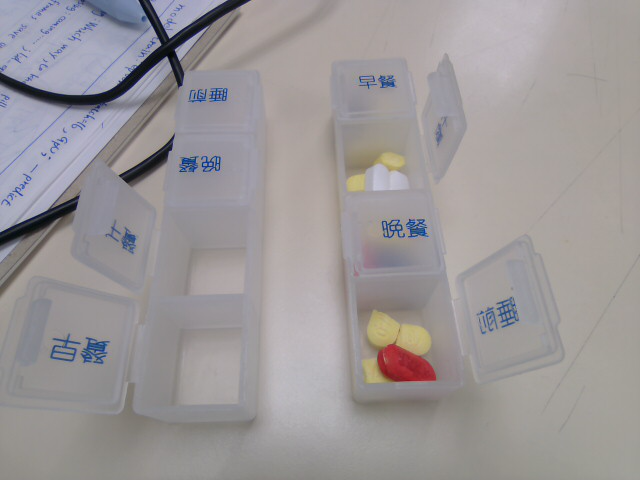
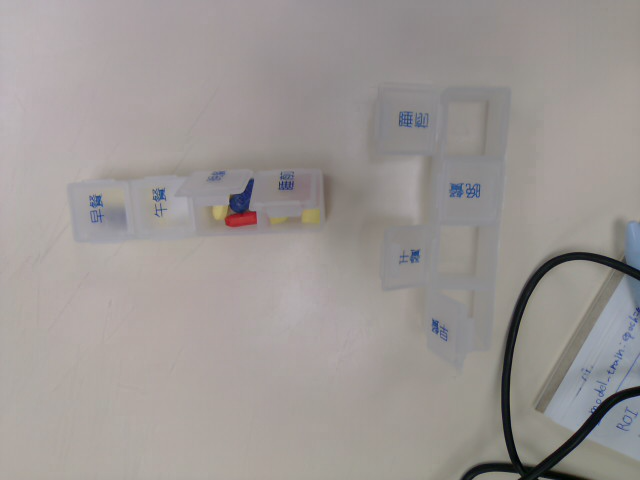
done

diff --git a/test_img.py b/test_img.py
@@ -35,7 +35,7 @@ def draw_target_obb(image, boxes, color, thickness=2):
         points = cv2.boxPoints(rect)
         points = np.int32(points)
     
-        cv2.polylines(img, [points], isClosed=True, color=color, thickness=thickness)
+        cv2.polylines(output_img, [points], isClosed=True, color=color, thickness=thickness)
 
     return output_img
 
